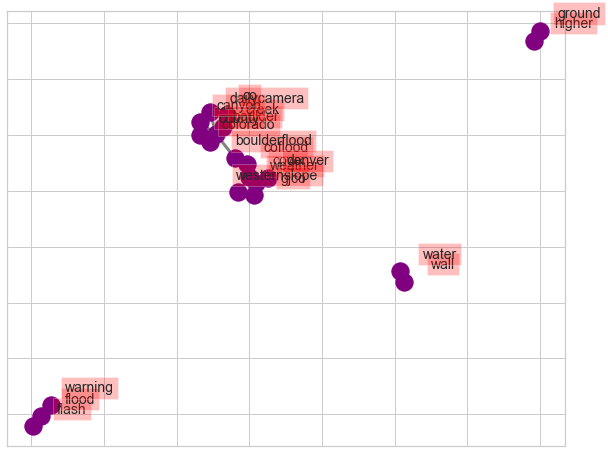
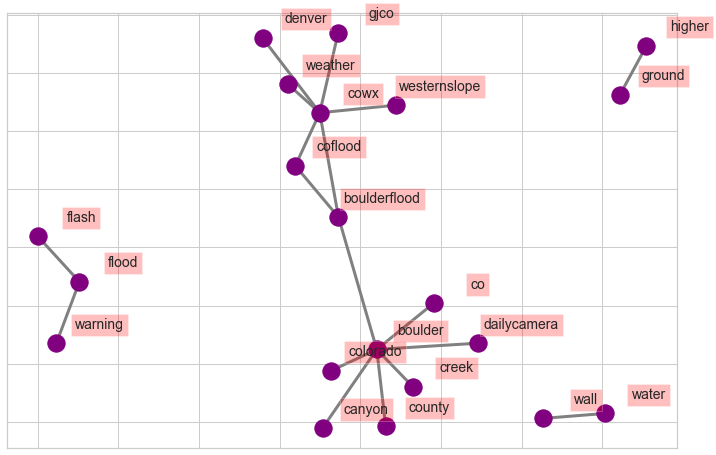
fix network plot

Changed region(s): [[0.0, 0.0, 1.0, 0.989], [0.7188, 0.8344, 0.9375, 0.9581], [0.25, 0.8962, 0.3125, 0.9581]]

diff --git a/_posts/courses/intermediate-earth-data-science-textbook/07-apis-twitter/02-twitter-api/2020-03-25-twitter-06-boulder-flood-tweets.md b/_posts/courses/intermediate-earth-data-science-textbook/07-apis-twitter/02-twitter-api/2020-03-25-twitter-06-boulder-flood-tweets.md
@@ -450,7 +450,7 @@ tweets_nsw_nc[2]
 
 {:.output}
     [nltk_data] Downloading package stopwords to /root/nltk_data...
-    [nltk_data]   Package stopwords is already up-to-date!
+    [nltk_data]   Unzipping corpora/stopwords.zip.
 
 
 
@@ -682,9 +682,9 @@ for k, v in d[0].items():
 
 {:.input}
 ```python
-fig, ax = plt.subplots(figsize=(10, 8))
-pos = nx.spring_layout(G, k=1)
+fig, ax = plt.subplots(figsize=(12, 8))
 
+pos = nx.spring_layout(G, k=5.5)
 # Plot networks
 nx.draw_networkx(G, pos,
                  font_size=16,
@@ -696,7 +696,7 @@ nx.draw_networkx(G, pos,
 
 # Create offset labels
 for key, value in pos.items():
-    x, y = value[0]+.135, value[1]+.047
+    x, y = value[0]+.135, value[1]+.05
     ax.text(x, y,
             s=key,
             bbox=dict(facecolor='red', alpha=0.25),
